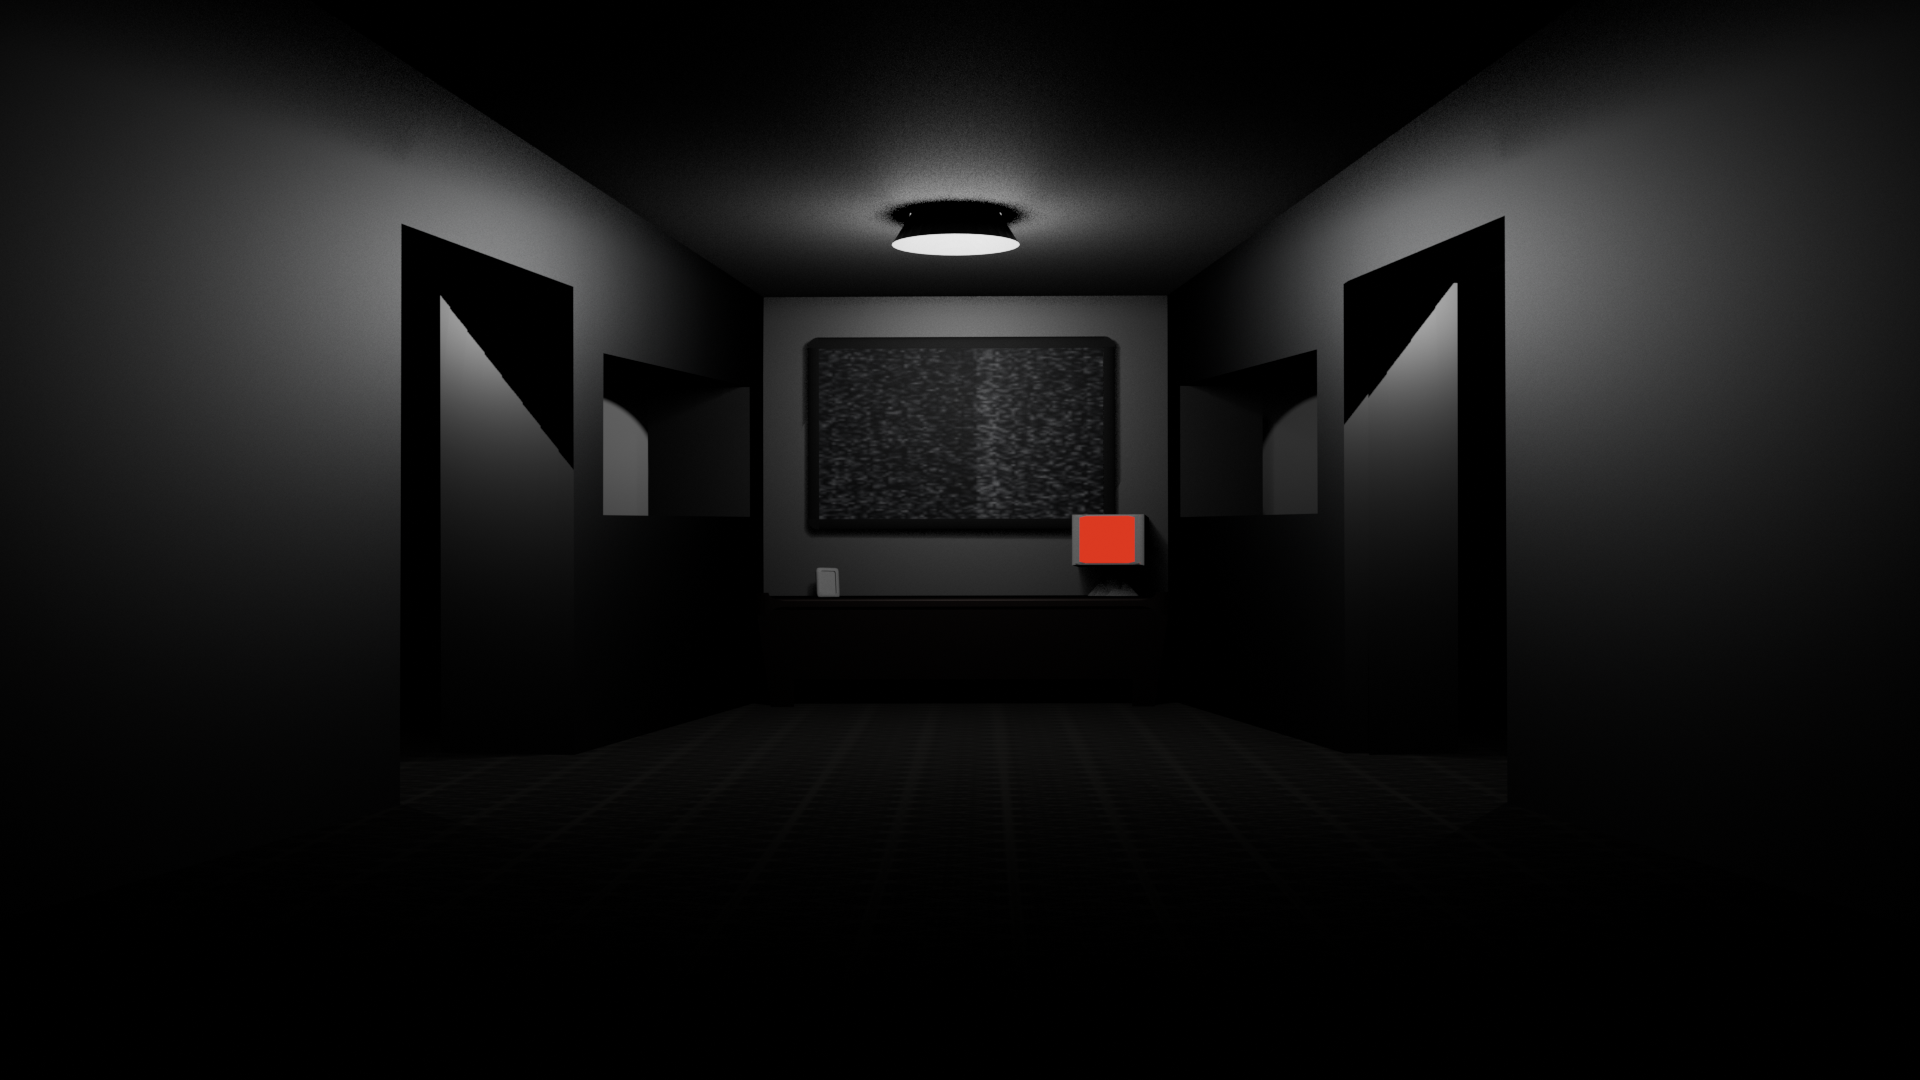
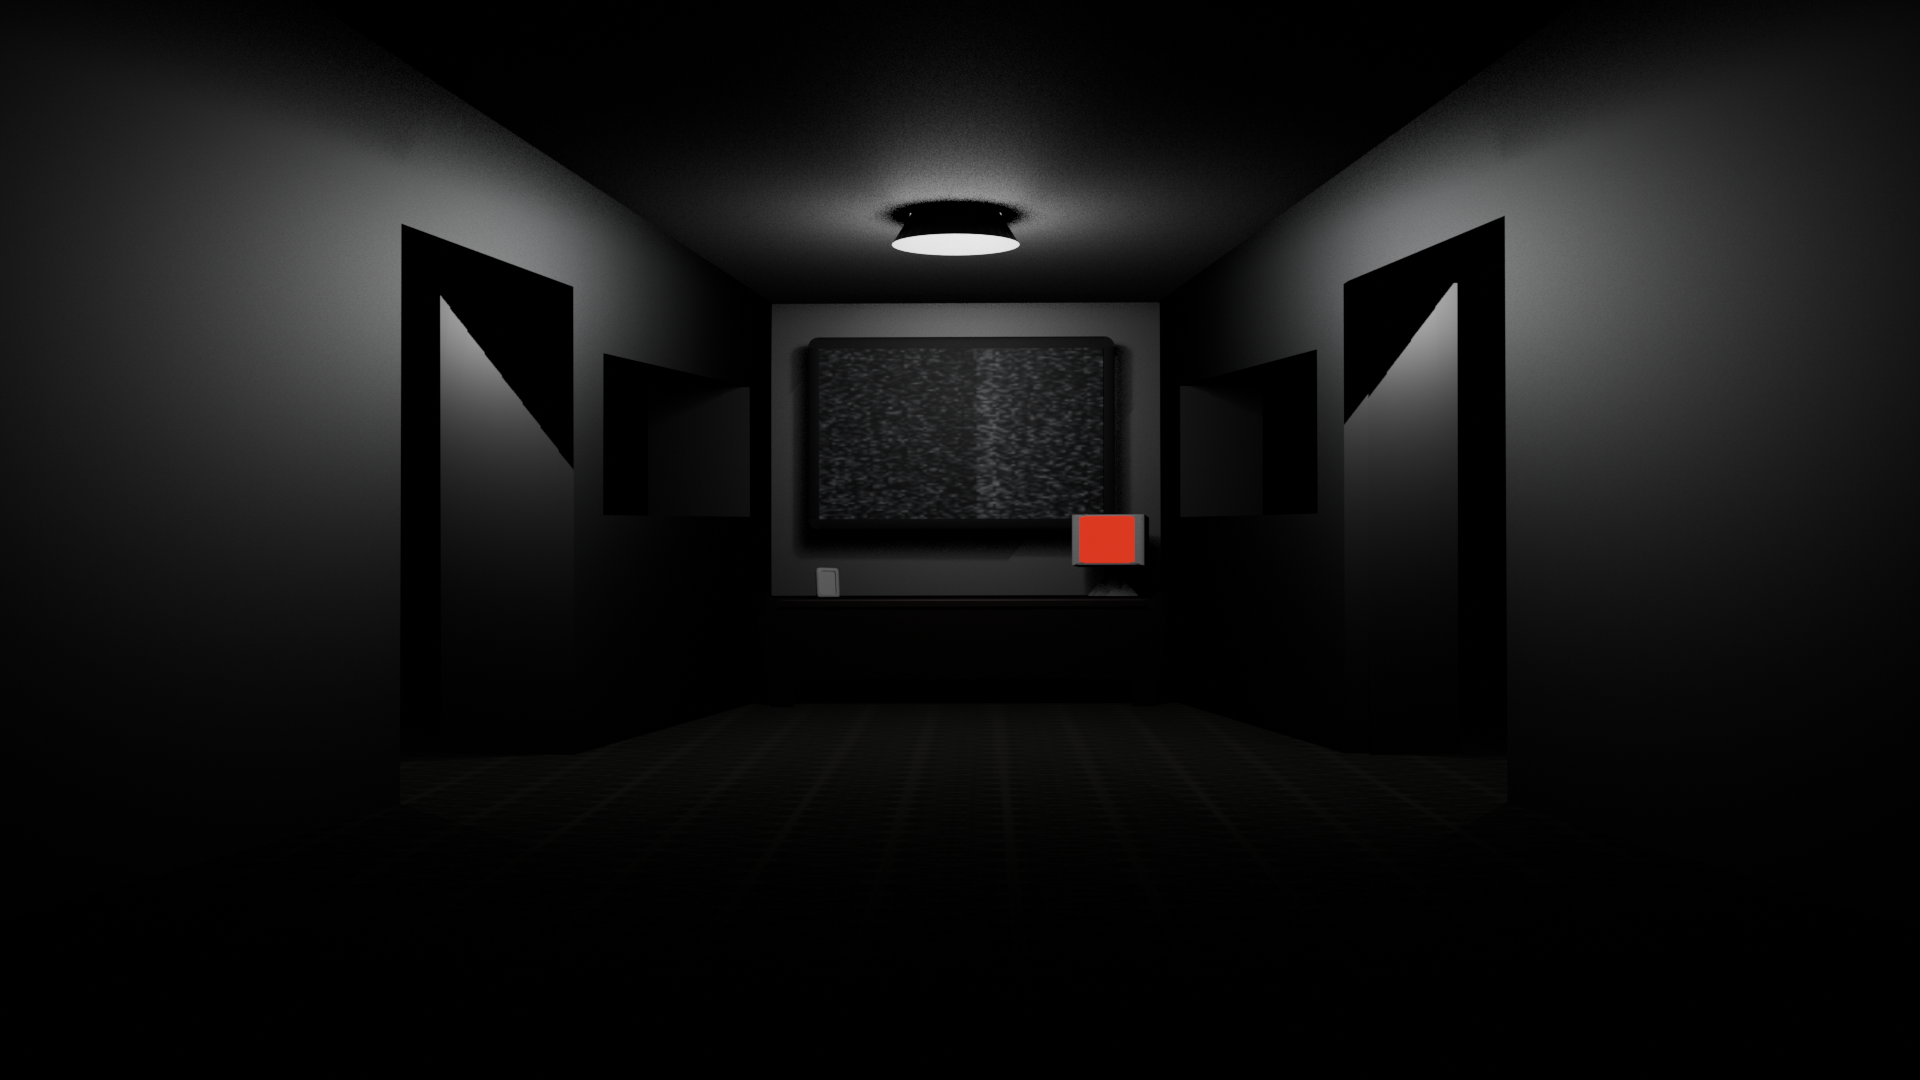
almost finished linking backgrounds to game events

Changed region(s): [[0.375, 0.275, 0.625, 0.5194], [0.6562, 0.3667, 0.6875, 0.4889], [0.3125, 0.3667, 0.3438, 0.4889]]

diff --git a/src/game_core.c b/src/game_core.c
@@ -279,29 +279,49 @@ void game_init(SDL_Renderer* renderer, SDL_Window* window, TTF_Font* fontBattery
         BLACKOUT = IMG_LoadTexture(renderer, "./assets/img/INgame/BLACKOUT.png");
 
        // Load Textures (internimable)
-int BLACKOUT = NULL;
-BLACKOUT = IMG_LoadTexture(renderer, "assets/img/InGame/BLACKOUT.png");
+BLACKOUT = IMG_LoadTexture(renderer, "assets/img/INgame/BLACKOUT.png");
 
-R_D_OFF_LI_OFF_L_D_OFF_LI_OFF = IMG_LoadTexture(renderer, "assets/img/InGame/R_D_OFF_LI_OFF_L_D_OFF_LI_OFF.png");
-R_D_OFF_LI_OFF_L_OFF_LI_ON_M_W = IMG_LoadTexture(renderer, "assets/img/InGame/R_D_OFF_LI_OFF_L_D_OFF_LI_ON_M_W.png");
-R_D_OFF_LI_OFF_L_D_OFF_LI_ON_M = IMG_LoadTexture(renderer, "assets/img/InGame/R_D_OFF_LI_OFF_L_D_OFF_LI_ON_M.png");
-R_D_OFF_LI_OFF_L_D_OFF_LI_ON = IMG_LoadTexture(renderer, "assets/img/InGame/R_D_OFF_LI_OFF_L_D_OFF_LI_ON.png");
-R_D_OFF_LI_OFF_L_D_ON_LI_OFF = IMG_LoadTexture(renderer, "assets/img/InGame/R_D_OFF_LI_OFF_L_D_ON_LI_OFF.png");
-R_D_OFF_LI_ON_L_D_OFF_LI_OFF_M_W = IMG_LoadTexture(renderer, "assets/img/InGame/R_D_OFF_LI_ON_L_D_OFF_LI_OFF_M_W.png");
-R_D_OFF_LI_ON_L_D_OFF_LI_OFF_M = IMG_LoadTexture(renderer, "assets/img/InGame/R_D_OFF_LI_ON_L_D_OFF_LI_OFF_M.png");
-R_D_OFF_LI_ON_L_D_OFF_LI_OFF = IMG_LoadTexture(renderer, "assets/img/InGame/R_D_OFF_LI_ON_L_D_OFF_LI_OFF.png");
-R_D_OFF_LI_ON_L_D_OFF_LI_ON_M_D = IMG_LoadTexture(renderer, "assets/img/InGame/R_D_OFF_LI_ON_L_D_OFF_LI_ON_M_D.png");
-R_D_OFF_LI_ON_L_D_OFF_LI_ON_M_W_D = IMG_LoadTexture(renderer, "assets/img/InGame/R_D_OFF_LI_ON_L_D_OFF_LI_ON_M_W_D.png");
-R_D_OFF_LI_ON_L_D_OFF_LI_ON_M_W = IMG_LoadTexture(renderer, "assets/img/InGame/R_D_OFF_LI_ON_L_D_OFF_LI_ON_M_W.png");
-R_D_OFF_LI_ON_L_D_OFF_LI_ON_M = IMG_LoadTexture(renderer, "assets/img/InGame/R_D_OFF_LI_ON_L_D_OFF_LI_ON_M.png");
-R_D_OFF_LI_ON_L_D_OFF_LI_ON = IMG_LoadTexture(renderer, "assets/img/InGame/R_D_OFF_LI_ON_L_D_OFF_LI_ON.png");
-R_D_OFF_LI_ON_L_D_ON_LI_OFF = IMG_LoadTexture(renderer, "assets/img/InGame/R_D_OFF_LI_ON_L_D_ON_LI_OFF.png");
-R_D_ON_LI_OFF_L_D_OFF_LI_OFF = IMG_LoadTexture(renderer, "assets/img/InGame/R_D_ON_LI_OFF_L_D_OFF_LI_OFF.png");
-R_D_ON_LI_OFF_L_D_OFF_LI_ON = IMG_LoadTexture(renderer, "assets/img/InGame/R_D_ON_LI_OFF_L_D_OFF_LI_ON.png");
-R_D_ON_LI_ON_L_D_OFF_LI_OFF_M = IMG_LoadTexture(renderer, "assets/img/InGame/R_D_ON_LI_ON_L_D_OFF_LI_OFF_M.png");
-R_D_ON_LI_ON_L_D_OFF_LI_OFF = IMG_LoadTexture(renderer, "assets/img/InGame/R_D_ON_LI_ON_L_D_OFF_LI_OFF.png");
-R_D_ON_LI_ON_L_D_OFF_LI_ON = IMG_LoadTexture(renderer, "assets/img/InGame/R_D_ON_LI_ON_L_D_OFF_LI_ON.png");
-R_D_OFF_LI_OFF_L_ON_LI_OFF_ON_M_W = IMG_LoadTexture(renderer, "assets/img/InGame/R_D_OFF_L_OFF_L_ON_LI_ON_M_W.png");
+R_D_OFF_LI_OFF_L_D_OFF_LI_OFF = IMG_LoadTexture(renderer, "assets/img/INgame/R_D_OFF_LI_OFF_L_D_OFF_LI_OFF.png");
+R_D_OFF_LI_OFF_L_OFF_LI_ON_M_W = IMG_LoadTexture(renderer, "assets/img/INgame/R_D_OFF_LI_OFF_L_D_OFF_LI_ON_M_W.png");
+R_D_OFF_LI_OFF_L_D_OFF_LI_ON_M = IMG_LoadTexture(renderer, "assets/img/INgame/R_D_OFF_LI_OFF_L_D_OFF_LI_ON_M.png");
+R_D_OFF_LI_OFF_L_D_OFF_LI_ON = IMG_LoadTexture(renderer, "assets/img/INgame/R_D_OFF_LI_OFF_L_D_OFF_LI_ON.png");
+R_D_OFF_LI_OFF_L_D_ON_LI_OFF = IMG_LoadTexture(renderer, "assets/img/INgame/R_D_OFF_LI_OFF_L_D_ON_LI_OFF.png");
+R_D_OFF_LI_ON_L_D_OFF_LI_OFF_M_W = IMG_LoadTexture(renderer, "assets/img/INgame/R_D_OFF_LI_ON_L_D_OFF_LI_OFF_M_W.png");
+R_D_OFF_LI_ON_L_D_OFF_LI_OFF_M = IMG_LoadTexture(renderer, "assets/img/INgame/R_D_OFF_LI_ON_L_D_OFF_LI_OFF_M.png");
+R_D_OFF_LI_ON_L_D_OFF_LI_OFF = IMG_LoadTexture(renderer, "assets/img/INgame/R_D_OFF_LI_ON_L_D_OFF_LI_OFF.png");
+R_D_OFF_LI_ON_L_D_OFF_LI_ON_M_D = IMG_LoadTexture(renderer, "assets/img/INgame/R_D_OFF_LI_ON_L_D_OFF_LI_ON_M_D.png");
+R_D_OFF_LI_ON_L_D_OFF_LI_ON_M_W_D = IMG_LoadTexture(renderer, "assets/img/INgame/R_D_OFF_LI_ON_L_D_OFF_LI_ON_M_W_D.png");
+R_D_OFF_LI_ON_L_D_OFF_LI_ON_M_W = IMG_LoadTexture(renderer, "assets/img/INgame/R_D_OFF_LI_ON_L_D_OFF_LI_ON_M_W.png");
+R_D_OFF_LI_ON_L_D_OFF_LI_ON_M = IMG_LoadTexture(renderer, "assets/img/INgame/R_D_OFF_LI_ON_L_D_OFF_LI_ON_M.png");
+R_D_OFF_LI_ON_L_D_OFF_LI_ON = IMG_LoadTexture(renderer, "assets/img/INgame/R_D_OFF_LI_ON_L_D_OFF_LI_ON.png");
+R_D_OFF_LI_ON_L_D_ON_LI_OFF = IMG_LoadTexture(renderer, "assets/img/INgame/R_D_OFF_LI_ON_L_D_ON_LI_OFF.png");
+R_D_ON_LI_OFF_L_D_OFF_LI_OFF = IMG_LoadTexture(renderer, "assets/img/INgame/R_D_ON_LI_OFF_L_D_OFF_LI_OFF.png");
+R_D_ON_LI_OFF_L_D_OFF_LI_ON = IMG_LoadTexture(renderer, "assets/img/INgame/R_D_ON_LI_OFF_L_D_OFF_LI_ON.png");
+R_D_ON_LI_ON_L_D_OFF_LI_OFF_M = IMG_LoadTexture(renderer, "assets/img/INgame/R_D_ON_LI_ON_l_D_OFF_LI_OFF_M.png");
+R_D_ON_LI_ON_L_D_OFF_LI_ON = IMG_LoadTexture(renderer, "assets/img/INgame/R_D_ON_LI_ON_L_D_OFF_LI_ON.png");
+R_D_OFF_LI_ON_L_D_OFF_LI_ON = IMG_LoadTexture(renderer, "assets/img/INgame/R_D_OFF_LI_ON_L_D_OFF_LI_ON.png");
+R_D_OFF_LI_OFF_L_ON_LI_OFF_ON_M_W = IMG_LoadTexture(renderer, "assets/img/INgame/R_D_OFF_L_OFF_L_ON_LI_ON_M_W.png");
+
+R_D_OFF_LI_OFF_L_D_ON_LI_ON_M_W = IMG_LoadTexture(renderer, "assets/img/INgame/R_D_OFF_LI_OFF_L_D_ON_LI_ON_M_W.png");
+R_D_OFF_LI_OFF_L_D_ON_LI_ON = IMG_LoadTexture(renderer, "assets/img/INgame/R_D_OFF_LI_OFF_L_D_ON_LI_ON.png");
+R_D_OFF_LI_ON_L_D_ON_LI_ON_M_W_D = IMG_LoadTexture(renderer, "assets/img/INgame/R_D_OFF_LI_ON_L_D_ON_LI_ON_M_W_D.png");
+R_D_OFF_LI_ON_L_D_ON_LI_ON_M_W = IMG_LoadTexture(renderer, "assets/img/INgame/R_D_OFF_LI_ON_L_D_ON_LI_ON_M_W.png");
+
+R_D_OFF_LI_ON_L_D_ON_LI_ON_M = IMG_LoadTexture(renderer, "assets/img/INgame/R_D_OFF_LI_ON_L_D_ON_LI_ON_M.png");
+R_D_OFF_LI_ON_L_D_ON_LI_ON = IMG_LoadTexture(renderer, "assets/img/INgame/R_D_OFF_LI_ON_L_D_ON_LI_ON.png");
+R_D_ON_LI_OFF_L_D_OFF_LI_ON_M_W = IMG_LoadTexture(renderer, "assets/img/INgame/R_D_ON_LI_OFF_L_D_OFF_LI_ON_M_W.png");
+R_D_ON_LI_OFF_L_D_OFF_LI_ON_M = IMG_LoadTexture(renderer, "assets/img/INgame/R_D_ON_LI_OFF_L_D_OFF_LI_ON_M.png");
+
+R_D_ON_LI_OFF_L_D_ON_LI_OFF = IMG_LoadTexture(renderer, "assets/img/INgame/R_D_ON_LI_OFF_L_D_ON_LI_OFF.png");
+R_D_ON_LI_ON_L_D_OFF_LI_ON_M_W_D = IMG_LoadTexture(renderer, "assets/img/INgame/R_D_ON_LI_ON_L_D_OFF_LI_ON_M_W_D.png");
+R_D_ON_LI_ON_L_D_OFF_LI_ON_M_W = IMG_LoadTexture(renderer, "assets/img/INgame/R_D_ON_LI_ON_L_D_OFF_LI_ON_M_W.png");
+R_D_ON_LI_ON_L_D_OFF_LI_ON_M = IMG_LoadTexture(renderer, "assets/img/INgame/R_D_ON_LI_ON_L_D_OFF_LI_ON_M.png");
+R_D_ON_LI_ON_L_D_OFF_LI_OFF_M_W_D = IMG_LoadTexture(renderer, "assets/img/INgame/R_D_ON_LI_ON_L_D_OFF_LI_OFF_M_W_D.png");
+R_D_ON_LI_ON_L_D_ON_LI_OFF_M_W_D = IMG_LoadTexture(renderer, "assets/img/INgame/R_D_ON_LI_ON_L_D_ON_LI_OFF_M_W_D.png");
+R_D_ON_LI_ON_L_D_ON_LI_OFF = IMG_LoadTexture(renderer, "assets/img/INgame/R_D_ON_LI_ON_L_D_ON_LI_OFF.png");
+
+R_D_ON_LI_OFF_L_D_ON_LI_ON_M_W = IMG_LoadTexture(renderer, "assets/img/INgame/R_D_ON_LI_OFF_L_D_ON_LI_ON_M_W.png");
+R_D_ON_LI_OFF_L_D_ON_LI_ON = IMG_LoadTexture(renderer, "assets/img/INgame/R_D_ON_LI_OFF_L_D_ON_LI_ON.png");
 
         MONITOR_ROOM = IMG_LoadTexture(renderer, "./assets/img/INgame/MONITOR_ROOM.png");
         MONITOR_ROOM_M = IMG_LoadTexture(renderer, "./assets/img/INgame/MONITOR_ROOM_M.png");
@@ -446,7 +466,6 @@ R_D_OFF_LI_OFF_L_ON_LI_OFF_ON_M_W = IMG_LoadTexture(renderer, "assets/img/InGame
         night++;
         save_night(night);
     }
-    if(cameraStatic) Mix_FreeMusic(cameraStatic);
 }
 
 void game_final_cleanup(){

diff --git a/src/renderer.c b/src/renderer.c
@@ -294,24 +294,135 @@ void affichage(){
             ouverture_porte_gauche(map, joueur);
             ouverture_porte_droite(map, joueur);
         }
-        else if(!porteDroiteActive && !lumiereDroiteActive && !porteGaucheActive && !lumiereGaucheActive){
-            background = R_D_OFF_LI_OFF_L_OFF_L_OFF_LI_OFF;
+        //LUMIERE GAUCHE
+        else if(!porteDroiteActive && !lumiereDroiteActive && !porteGaucheActive && lumiereGaucheActive){
+            if(monster->num_camera == PORTE_BAS){
+                background = R_D_OFF_LI_ON_L_D_OFF_LI_ON_M;
+            }
+            else if(monster->num_camera == PORTE_BAS-1){
+                background = R_D_OFF_LI_ON_L_D_OFF_LI_ON_M_W;
+            }
+            else
+            background = R_D_OFF_LI_OFF_L_D_OFF_LI_ON;
         }
-         else if(porteDroiteActive && porteGaucheActive && !lumiereDroiteActive && !lumiereGaucheActive){
-            background = R_D_OFF_LI_OFF_L_OFF_L_ON_LI_OFF;
-        }
-        else if(!porteDroiteActive && !porteGaucheActive && lumiereDroiteActive && lumiereGaucheActive){
-            background = R_D_ON_LI_ON_L_D_OFF_LI_OFF;
-        }
-        else if(!porteDroiteActive && !porteGaucheActive && lumiereDroiteActive && !lumiereGaucheActive){
+         //PORTE DROITE
+        else if(porteDroiteActive && !lumiereDroiteActive && !porteGaucheActive && !lumiereGaucheActive){
             background = R_D_ON_LI_OFF_L_D_OFF_LI_OFF;
         }
-        else if(!porteDroiteActive && !porteGaucheActive && !lumiereDroiteActive && lumiereGaucheActive){
-            background = R_D_OFF_LI_ON_L_D_OFF_LI_OFF;
-            
+        //PORTE GAUCHE
+        else if(!porteDroiteActive && !lumiereDroiteActive && porteGaucheActive && !lumiereGaucheActive){
+            background = R_D_OFF_LI_OFF_L_D_ON_LI_OFF;
         }
-
+        //LUMIERE DROITE
+        else if(!porteDroiteActive && lumiereDroiteActive && !porteGaucheActive && !lumiereGaucheActive){
+            if(monster->num_camera == PORTE_HAUT-1){
+                background = R_D_OFF_LI_ON_L_D_OFF_LI_OFF_M_W;
+            }
+            if(monster->num_camera == PORTE_HAUT){
+                background = R_D_OFF_LI_ON_L_D_OFF_LI_OFF_M;
+            }
+            background = R_D_OFF_LI_ON_L_D_OFF_LI_OFF;
+        }
+        //LUMIERE DROITE LUMIERE GAUCHE
+         else if(!porteDroiteActive && lumiereDroiteActive && !porteGaucheActive && lumiereGaucheActive){
+            if(monster->num_camera == PORTE_BAS-1){
+                background = R_D_OFF_LI_ON_L_D_OFF_LI_ON_M_W;
+            }
+            else if(monster->num_camera == PORTE_BAS){
+                background = R_D_OFF_LI_ON_L_D_OFF_LI_ON_M;
+            }
+            else if(monster->num_camera == PORTE_HAUT-1){
+                background = R_D_OFF_LI_ON_L_D_OFF_LI_ON_M_W_D;
+            }
+            else if(monster->num_camera == PORTE_HAUT){
+                background = R_D_OFF_LI_ON_L_D_OFF_LI_ON_M_D;
+            }
+            background = R_D_OFF_LI_ON_L_D_OFF_LI_ON;
+        }
+        //LUMIERE GAUCHE PORTE GAUCHE
+         else if(!porteDroiteActive && !lumiereDroiteActive && porteGaucheActive && lumiereGaucheActive){
+            if(monster->num_camera == PORTE_BAS-1){
+                background = R_D_OFF_LI_OFF_L_D_ON_LI_ON_M_W;
+            }
+            else
+                background = R_D_OFF_LI_OFF_L_D_ON_LI_ON;
+        }
+        //LUMIERE GAUCHE PORTE DROITE
+         else if(porteDroiteActive && !lumiereDroiteActive && !porteGaucheActive && lumiereGaucheActive){
+             if(monster->num_camera == PORTE_BAS-1){
+                background = R_D_ON_LI_OFF_L_D_OFF_LI_ON_M_W;
+            }
+            else if(monster->num_camera == PORTE_BAS){
+                background = R_D_ON_LI_OFF_L_D_OFF_LI_ON_M;
+            }
+            background = R_D_ON_LI_OFF_L_D_OFF_LI_ON;
+        }
+        //LUMIERE GAUCHE PORTE GAUCHE
+         else if(!porteDroiteActive && !lumiereDroiteActive && porteGaucheActive && lumiereGaucheActive){
+            if(monster->num_camera == PORTE_BAS-1){
+                background = R_D_OFF_LI_OFF_L_D_ON_LI_ON_M_W;
+            }
+            else
+                background = R_D_OFF_LI_OFF_L_D_ON_LI_ON;
+        }
         
+        //LUMIERE DROITE LUMIERE GAUCHE PORTE GAUCHE
+         else if(!porteDroiteActive && lumiereDroiteActive && porteGaucheActive && lumiereGaucheActive){
+            if(monster->num_camera == PORTE_HAUT){
+                background = R_D_OFF_LI_ON_L_D_ON_LI_ON_M;
+            }
+            else if(monster->num_camera == PORTE_HAUT-1){
+                background = R_D_OFF_LI_ON_L_D_ON_LI_ON_M_W_D;
+            }
+             else if(monster->num_camera == PORTE_BAS-1){
+                background = R_D_OFF_LI_ON_L_D_ON_LI_ON_M_W;
+            }
+            background = R_D_OFF_LI_ON_L_D_ON_LI_ON;
+        }
+        
+        //LUMIERE DROITE LUMIERE GAUCHE PORTE DROITE
+         else if(porteDroiteActive && lumiereDroiteActive && !porteGaucheActive && lumiereGaucheActive){
+            if(monster->num_camera == PORTE_HAUT-1){
+                background = R_D_ON_LI_ON_L_D_OFF_LI_ON_M_W_D;
+            }
+            else if(monster->num_camera == PORTE_BAS){
+                background = R_D_ON_LI_ON_L_D_OFF_LI_ON_M;
+            }
+             else if(monster->num_camera == PORTE_BAS-1){
+                background = R_D_ON_LI_ON_L_D_OFF_LI_ON_M_W;
+            }
+            background = R_D_ON_LI_ON_L_D_OFF_LI_ON;
+        }
+        //LUMIERE GAUCHE PORTE GAUCHE PORTE DROITE
+         else if(porteDroiteActive && !lumiereDroiteActive && porteGaucheActive && lumiereGaucheActive){
+             if(monster->num_camera == PORTE_BAS-1){
+                background = R_D_ON_LI_OFF_L_D_ON_LI_ON_M_W;
+            }
+            background = R_D_ON_LI_OFF_L_D_ON_LI_ON;
+        }
+        
+        //PORTE DROITE LUMIERE DROITE PORTE GAUCHE
+        else if(porteDroiteActive && lumiereDroiteActive && porteGaucheActive && !lumiereGaucheActive){
+            if(monster->num_camera == PORTE_HAUT-1){
+                background = R_D_ON_LI_ON_L_D_ON_LI_OFF_M_W_D;
+            }
+            background = R_D_ON_LI_ON_L_D_ON_LI_OFF;
+        }
+        
+        //PORTE DROITE LUMIERE DROITE
+        else if(porteDroiteActive && lumiereDroiteActive && !porteGaucheActive && !lumiereGaucheActive){
+            if(monster->num_camera == PORTE_HAUT-1){
+                background = R_D_ON_LI_ON_L_D_OFF_LI_OFF_M_W_D;
+            }
+            background = R_D_ON_LI_ON_L_D_OFF_LI_OFF;
+        }
+        //PORTE GAUCHE PORTE DROITE
+        else if(porteDroiteActive && !lumiereDroiteActive && porteGaucheActive && !lumiereGaucheActive){
+            background = R_D_ON_LI_OFF_L_D_ON_LI_OFF;
+        }
+        else{
+            background = R_D_OFF_LI_OFF_L_D_OFF_LI_OFF;
+        }
     }
     //If the monitor is on we display the camera backgrounds
     else{

diff --git a/lib/constantes.h b/lib/constantes.h
@@ -123,6 +123,26 @@ extern SDL_Texture *R_D_ON_LI_ON_L_D_OFF_LI_OFF_M ;
 extern SDL_Texture *R_D_ON_LI_ON_L_D_OFF_LI_OFF ;
 extern SDL_Texture *R_D_ON_LI_ON_L_D_OFF_LI_ON ;
 extern SDL_Texture *R_D_OFF_LI_OFF_L_ON_LI_OFF_ON_M_W ;
+extern SDL_Texture *R_D_OFF_LI_OFF_L_D_ON_LI_ON_M_W ;
+extern SDL_Texture *R_D_OFF_LI_OFF_L_D_ON_LI_ON ;
+extern SDL_Texture *R_D_OFF_LI_ON_L_D_ON_LI_ON_M_W_D ;
+extern SDL_Texture *R_D_OFF_LI_ON_L_D_ON_LI_ON_M_W ;
+
+extern SDL_Texture *R_D_OFF_LI_ON_L_D_ON_LI_ON_M ;
+extern SDL_Texture *R_D_OFF_LI_ON_L_D_ON_LI_ON ;
+extern SDL_Texture *R_D_ON_LI_OFF_L_D_OFF_LI_ON_M_W ;
+extern SDL_Texture *R_D_ON_LI_OFF_L_D_OFF_LI_ON_M ;
+extern SDL_Texture *R_D_ON_LI_ON_L_D_OFF_LI_OFF_M_W_D;
+
+extern SDL_Texture *R_D_ON_LI_OFF_L_D_ON_LI_ON_M_W;
+extern SDL_Texture *R_D_ON_LI_OFF_L_D_ON_LI_ON;
+
+extern SDL_Texture *R_D_ON_LI_OFF_L_D_ON_LI_OFF ;
+extern SDL_Texture *R_D_ON_LI_ON_L_D_OFF_LI_ON_M_W_D ;
+extern SDL_Texture *R_D_ON_LI_ON_L_D_OFF_LI_ON_M_W ;
+extern SDL_Texture *R_D_ON_LI_ON_L_D_OFF_LI_ON_M ;
+extern SDL_Texture *R_D_ON_LI_ON_L_D_ON_LI_OFF_M_W_D ;
+extern SDL_Texture *R_D_ON_LI_ON_L_D_ON_LI_OFF ;
 extern SDL_Texture *MONITOR_ROOM;
 extern SDL_Texture *MONITOR_ROOM_M;
 extern SDL_Texture *MONITOR_ROOM_MI;

diff --git a/src/constantes.c b/src/constantes.c
@@ -73,6 +73,26 @@ SDL_Texture *R_D_ON_LI_ON_L_D_OFF_LI_OFF_M = NULL;
 SDL_Texture *R_D_ON_LI_ON_L_D_OFF_LI_OFF = NULL;
 SDL_Texture *R_D_ON_LI_ON_L_D_OFF_LI_ON = NULL;
 SDL_Texture *R_D_OFF_LI_OFF_L_ON_LI_OFF_ON_M_W = NULL;
+SDL_Texture *R_D_OFF_LI_OFF_L_D_ON_LI_ON_M_W = NULL;
+SDL_Texture *R_D_OFF_LI_OFF_L_D_ON_LI_ON = NULL;
+SDL_Texture *R_D_OFF_LI_ON_L_D_ON_LI_ON_M_W_D = NULL;
+SDL_Texture *R_D_OFF_LI_ON_L_D_ON_LI_ON_M_W = NULL;
+
+SDL_Texture *R_D_OFF_LI_ON_L_D_ON_LI_ON_M = NULL;
+SDL_Texture *R_D_OFF_LI_ON_L_D_ON_LI_ON = NULL;
+SDL_Texture *R_D_ON_LI_OFF_L_D_OFF_LI_ON_M_W = NULL;
+SDL_Texture *R_D_ON_LI_OFF_L_D_OFF_LI_ON_M = NULL;
+SDL_Texture *R_D_ON_LI_ON_L_D_OFF_LI_OFF_M_W_D = NULL;
+
+SDL_Texture *R_D_ON_LI_OFF_L_D_ON_LI_ON_M_W = NULL;
+SDL_Texture *R_D_ON_LI_OFF_L_D_ON_LI_ON = NULL;
+
+SDL_Texture *R_D_ON_LI_OFF_L_D_ON_LI_OFF = NULL;
+SDL_Texture *R_D_ON_LI_ON_L_D_OFF_LI_ON_M_W_D = NULL;
+SDL_Texture *R_D_ON_LI_ON_L_D_OFF_LI_ON_M_W = NULL;
+SDL_Texture *R_D_ON_LI_ON_L_D_OFF_LI_ON_M = NULL;
+SDL_Texture *R_D_ON_LI_ON_L_D_ON_LI_OFF_M_W_D = NULL;
+SDL_Texture *R_D_ON_LI_ON_L_D_ON_LI_OFF = NULL;
 SDL_Texture *L_D = NULL;
 SDL_Texture *L_D_M = NULL;
 SDL_Texture *L_D_MI = NULL;
